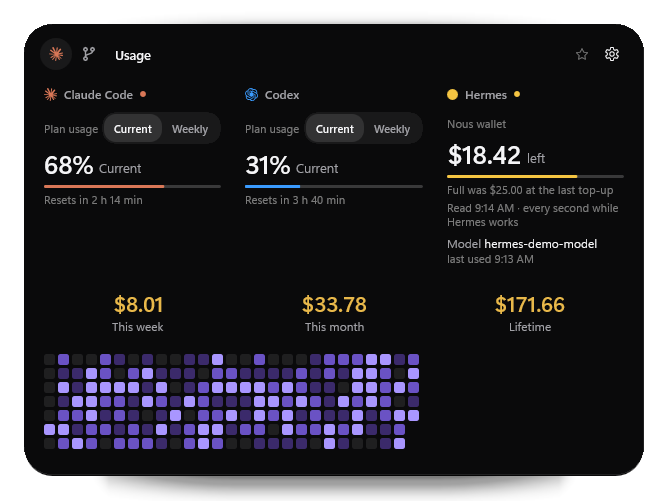
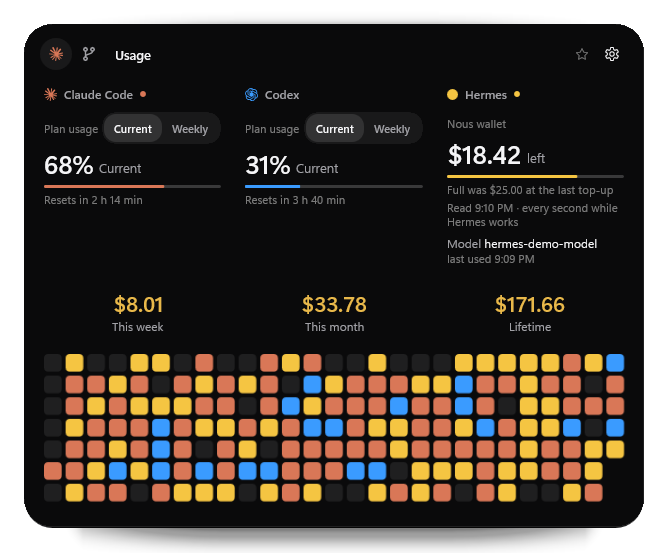
docs: hero GIF and screenshots in the Risograph style
Re-rendered from the 0.8.0 build with Quotalis.exe --demo --snapshot (sample
data only). hero.gif and hero.png now sit on the cream Risograph stage with
Instrument Serif captions in navy ink, drawn by tools/banner/caption.html in
a headless browser. The GIF shows the full-width usage graph coloured by the
top tool of each day and adds the capsule's Today slide. The README
screenshots are refreshed from the same renders.

diff --git a/tools/banner/caption.html b/tools/banner/caption.html
@@ -1,0 +1,26 @@
+<!doctype html>
+<!-- Quotalis by soybean_alien. One hero.gif caption in the Risograph design language, rendered by tools/make-readme-media.py:
+     caption.html?t=<text>&w=<width> on the cream stage colour, Instrument Serif italic in navy ink, three ink dots. -->
+<html>
+<head>
+<meta charset="utf-8" />
+<link href="https://fonts.googleapis.com/css2?family=Instrument+Serif:ital@0;1&display=swap" rel="stylesheet" />
+<style>
+  * { box-sizing: border-box; margin: 0; padding: 0; }
+  html, body { height: 84px; overflow: hidden; background: #efe7d6; color: #1d2040; -webkit-font-smoothing: antialiased; }
+  body { display: flex; align-items: center; justify-content: center; gap: 16px; font: italic 31px 'Instrument Serif', serif; }
+  .inks { display: flex; }
+  .inks i { width: 13px; height: 13px; border-radius: 50%; mix-blend-mode: multiply; }
+  .inks i + i { margin-left: -5px; }
+</style>
+</head>
+<body>
+  <span class="inks"><i style="background:#ff7a45"></i><i style="background:#4f9bff"></i><i style="background:#ffd23a"></i></span>
+  <span id="t"></span>
+<script>
+  const q = new URLSearchParams(location.search);
+  document.getElementById('t').textContent = q.get('t') || '';
+  document.documentElement.style.width = document.body.style.width = (q.get('w') || 1270) + 'px';
+</script>
+</body>
+</html>

diff --git a/tools/make-readme-media.py b/tools/make-readme-media.py
@@ -5,23 +5,33 @@
 
 Writes to docs/assets/:
   - the screenshots, copied under stable names (no editing, no mockups)
-  - hero.gif: 1270 x 840, about 18 s: the notch, the capsule, a live activity, Claude, Codex and Hermes usage,
-    the usage strip and Git, each with a one-line caption, joined by short crossfades (the live
-    app morphs with springs instead; see docs/RECORDING.md to record that)
+  - hero.gif: 1270 x 840, about 20 s: the notch, the capsule, a live activity, Claude, Codex and Hermes usage,
+    the usage graph, the usage strip, the Today slide and Git, each with a one-line caption, joined by short
+    crossfades (the live app morphs with springs instead; see docs/RECORDING.md to record that)
   - hero.png: the expanded usage view on the same stage
-The banner and social preview come from tools/banner/render.ps1 (no app renders needed).
+The stage and captions follow the Risograph design language (cream stock, Instrument Serif in navy ink); captions
+are drawn by tools/banner/caption.html in a headless Chrome or Edge. The banner and social preview come from
+tools/banner/render.ps1 (no app renders needed).
 """
 
 import shutil
+import subprocess
 import sys
+import tempfile
+import urllib.parse
 from pathlib import Path
 
 from PIL import Image, ImageDraw, ImageFont
 
 ROOT = Path(__file__).resolve().parent.parent
 ASSETS = ROOT / "docs" / "assets"
-STAGE = (0, 0, 0)
-CAPTION = (134, 134, 139)
+STAGE = (239, 231, 214)  # Risograph cream stock
+CAPTION = (29, 32, 64)  # navy ink, only for the fallback caption font
+CAPTION_PAGE = ROOT / "tools" / "banner" / "caption.html"
+CAPTION_HEIGHT = 84
+BROWSERS = [Path("C:/Program Files/Google/Chrome/Application/chrome.exe"),
+            Path("C:/Program Files (x86)/Microsoft/Edge/Application/msedge.exe"),
+            Path("C:/Program Files/Microsoft/Edge/Application/msedge.exe")]
 
 # Snapshot name -> asset name.
 SCREENSHOTS = {
@@ -50,9 +60,10 @@ SEQUENCE = [
     ("01-compact", 1.6, "Your Claude and Codex limits, at rest"),
     ("04-activity-claude", 1.4, "Claude Code at work"),
     ("10-expanded-usage", 3.4, "Claude, Codex and Hermes: plan limits, the Nous wallet, today's tokens"),
-    ("11-usage-tooltip", 2.6, "Every day, every tool, on one graph"),
+    ("11-usage-tooltip", 2.8, "Each day takes the colour of the tool you used most"),
     ("12-usage-strip", 2.0, "Or keep the usage strip on screen"),
     ("50-compact-hermes", 1.4, "Hermes's wallet, at rest"),
+    ("52-compact-usage-turn-3", 1.6, "Today: every tool's tokens, together"),
     ("10-expanded-git", 2.4, "Your repository, from the session you're in"),
     ("50-compact-git", 1.4, "Git, at rest"),
     ("01-compact", 1.0, "Quotalis"),
@@ -70,7 +81,7 @@ def capsule_box(image):
 
 
 def place(image, caption=None, canvas_size=CANVAS, top=TOP):
-    """The render on the black stage, capsule centered and its top at `top`, with an optional caption."""
+    """The render on the cream stage, capsule centered and its top at `top`, with an optional caption."""
     left, upper, right, lower = capsule_box(image)
     # A capsule taller than the stage (the three-column usage view with a day open) is scaled to fit above the caption.
     room = canvas_size[1] - top - (80 if caption else 24)
@@ -82,11 +93,39 @@ def place(image, caption=None, canvas_size=CANVAS, top=TOP):
     x = canvas_size[0] // 2 - (left + right) // 2
     canvas.alpha_composite(image, (x, top - upper))
     if caption:
-        draw = ImageDraw.Draw(canvas)
-        face = font(["SegUIVar.ttf", "segoeui.ttf"], 26)
-        width = draw.textlength(caption, font=face)
-        draw.text(((canvas_size[0] - width) / 2, canvas_size[1] - 58), caption, font=face, fill=CAPTION)
+        strip = caption_strip(caption, canvas_size[0])
+        if strip:
+            canvas.alpha_composite(strip, (0, canvas_size[1] - CAPTION_HEIGHT - 6))
+        else:
+            draw = ImageDraw.Draw(canvas)
+            face = font(["georgiai.ttf", "segoeui.ttf"], 28)
+            width = draw.textlength(caption, font=face)
+            draw.text(((canvas_size[0] - width) / 2, canvas_size[1] - 60), caption, font=face, fill=CAPTION)
     return canvas.convert("RGB")
+
+
+_strips = {}
+
+
+def caption_strip(text, width):
+    """The caption rendered by caption.html (Instrument Serif needs a browser); None without Chrome or Edge."""
+    if text in _strips:
+        return _strips[text]
+    browser = next((b for b in BROWSERS if b.exists()), None)
+    strip = None
+    if browser:
+        with tempfile.TemporaryDirectory() as tmp:
+            out = Path(tmp) / "caption.png"
+            url = CAPTION_PAGE.resolve().as_uri() + "?" + urllib.parse.urlencode({"t": text, "w": width})
+            subprocess.run([str(browser), "--headless=new", "--disable-gpu", "--hide-scrollbars",
+                            f"--user-data-dir={Path(tempfile.gettempdir()) / 'quotalis-banner-profile'}",
+                            f"--window-size={width},{CAPTION_HEIGHT}", "--virtual-time-budget=6000",
+                            f"--screenshot={out}", url], check=False, timeout=90,
+                           stdout=subprocess.DEVNULL, stderr=subprocess.DEVNULL)
+            if out.exists():
+                strip = Image.open(out).convert("RGBA").crop((0, 0, width, CAPTION_HEIGHT))
+    _strips[text] = strip
+    return strip
 
 
 def hero_gif(snaps, out):
